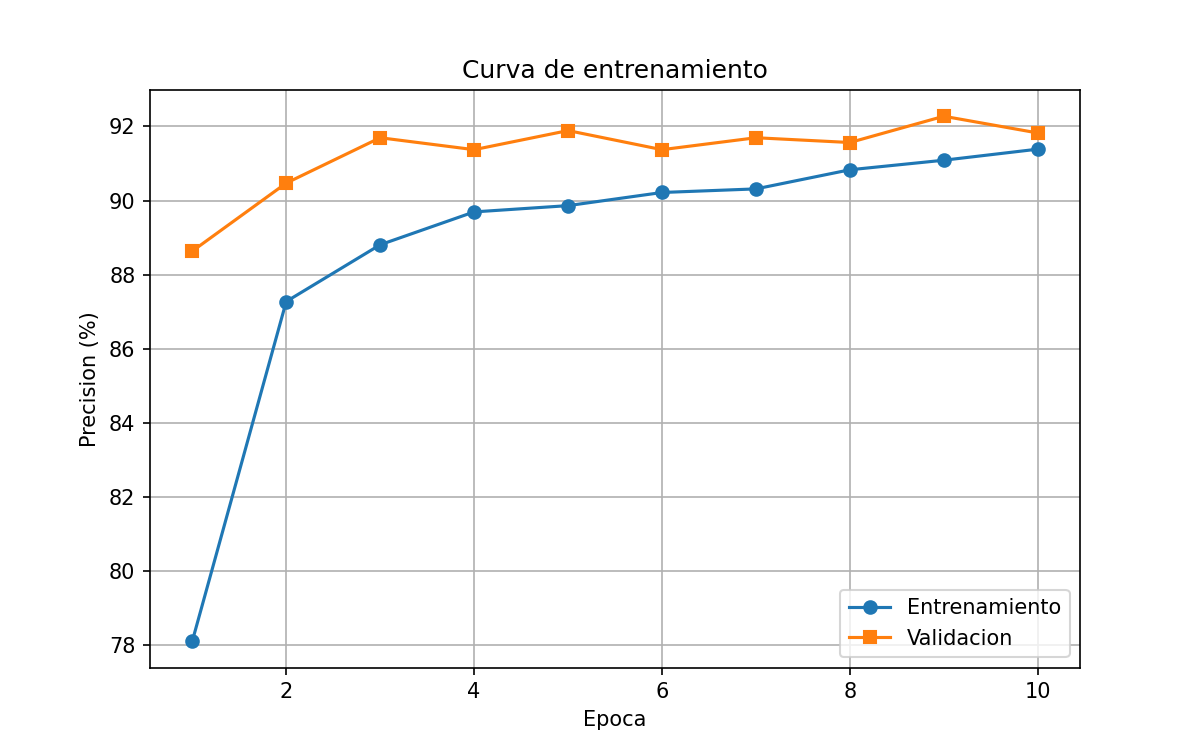
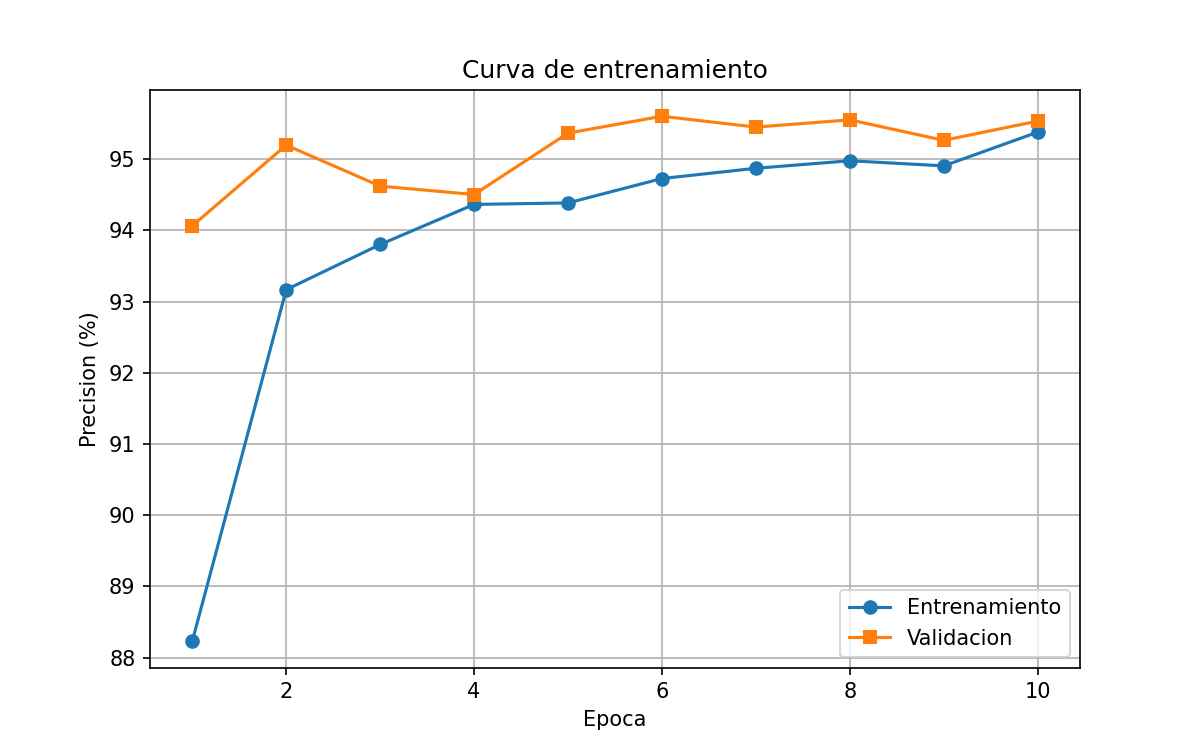
se agrego una nueva categoria

diff --git a/app.py b/app.py
@@ -8,7 +8,7 @@ import os
 clases = [
     'battery', 'biological', 'brown-glass', 'cardboard',
     'clothes', 'green-glass', 'metal', 'paper',
-    'plastic', 'shoes', 'trash', 'white-glass'
+    'plastic', 'shoes', 'trash', 'unknown', 'white-glass'
 ]
 
 def cargar_modelo():
